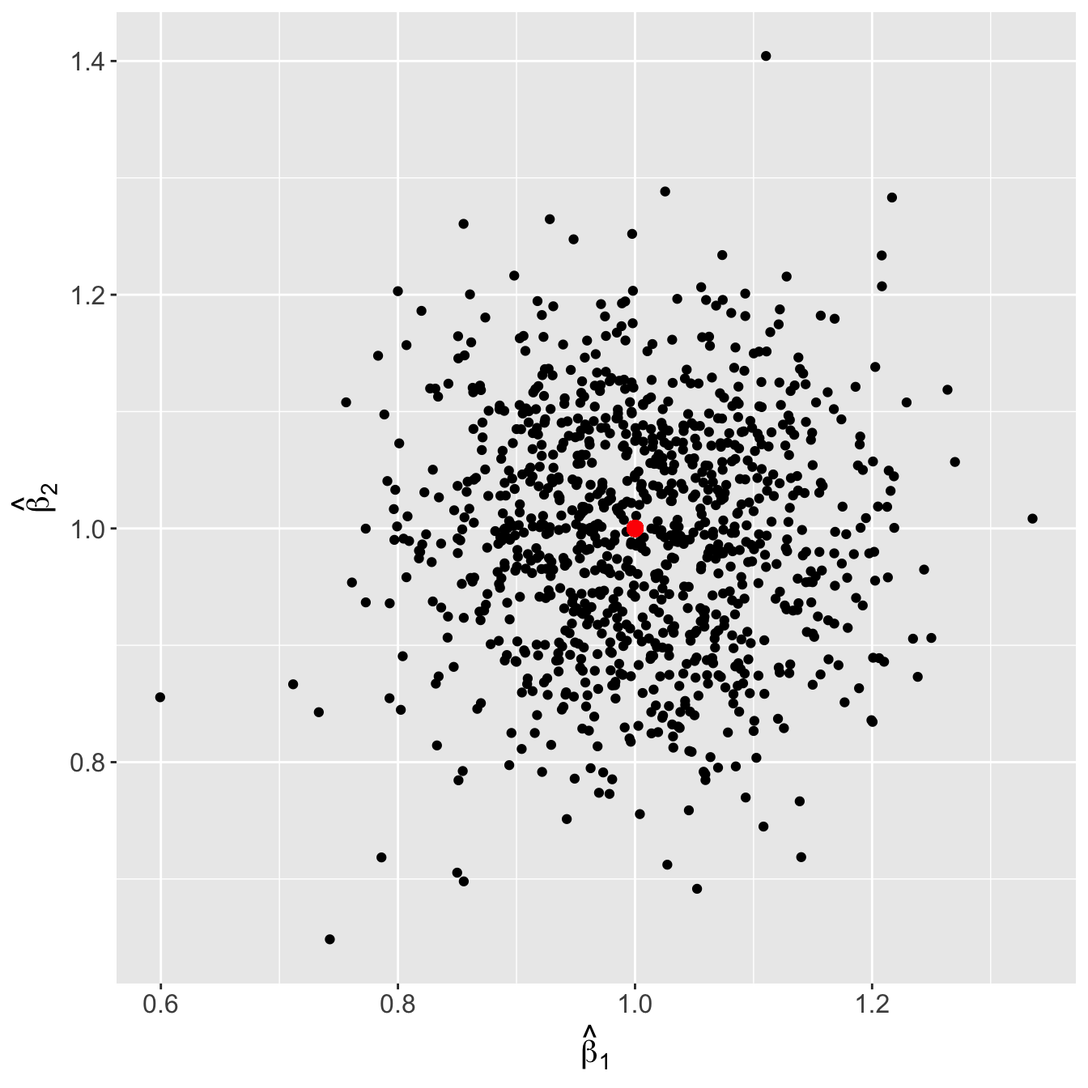
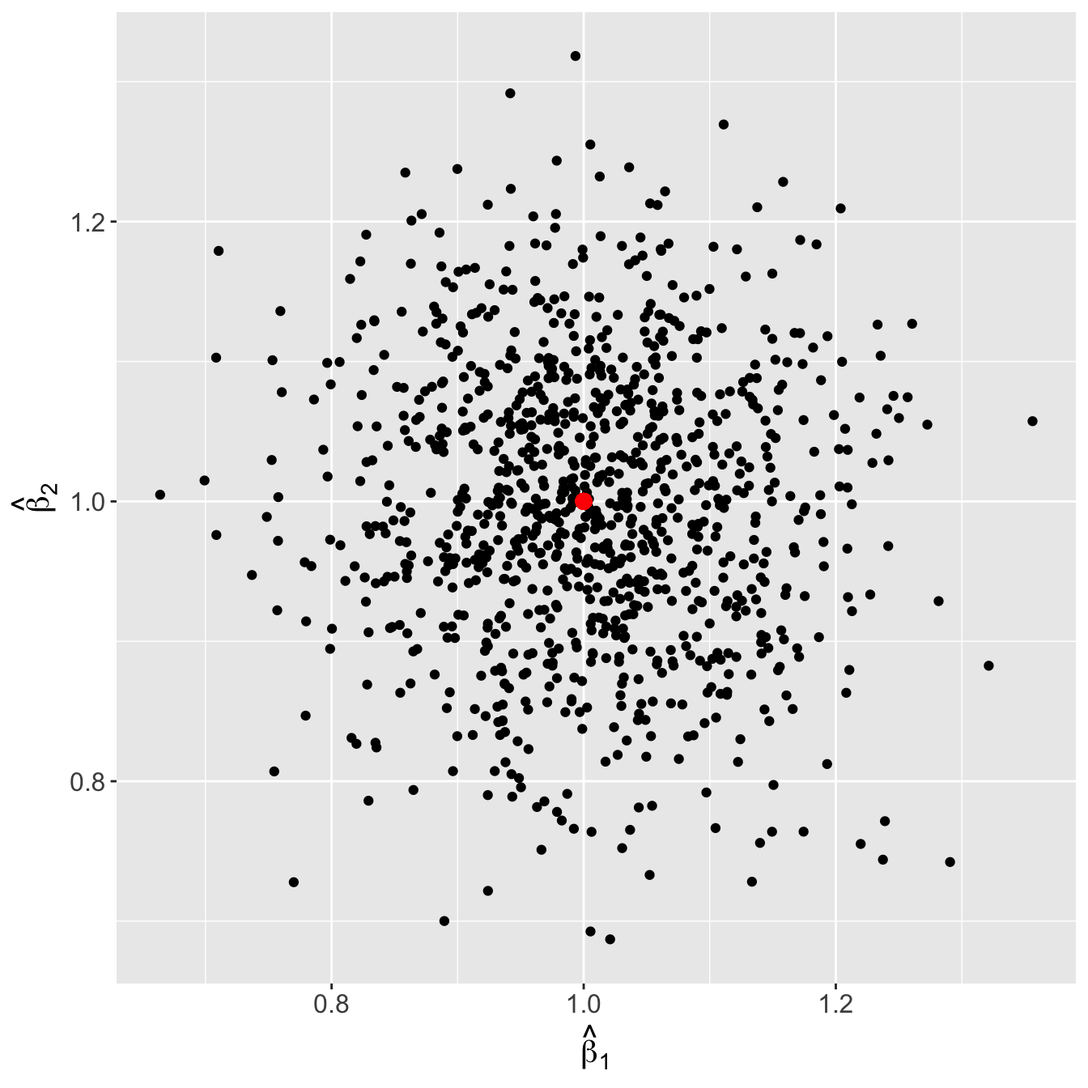
Fix link

diff --git a/docs/responsesurfaceplot.html b/docs/responsesurfaceplot.html
@@ -315,8 +315,8 @@ pre > code.sourceCode > span > a:first-child::before { text-decoration: underlin
 <span id="cb2-21"><a href="#cb2-21" aria-hidden="true" tabindex="-1"></a>                      <span class="at">yaxis=</span><span class="fu">list</span>(<span class="at">title =</span> <span class="st">"disp"</span>),</span>
 <span id="cb2-22"><a href="#cb2-22" aria-hidden="true" tabindex="-1"></a>                      <span class="at">zaxis=</span><span class="fu">list</span>(<span class="at">title =</span> <span class="st">"mpg"</span>)))</span></code><button title="Copy to Clipboard" class="code-copy-button"><i class="bi"></i></button></pre></div>
 <div class="cell-output-display">
-<div class="plotly html-widget html-fill-item-overflow-hidden html-fill-item" id="htmlwidget-5227a7df0e767307f2bc" style="width:100%;height:464px;"></div>
-<script type="application/json" data-for="htmlwidget-5227a7df0e767307f2bc">{"x":{"visdat":{"69561ab9ceee":["function () ","plotlyVisDat"]},"cur_data":"69561ab9ceee","attrs":{"69561ab9ceee":{"x":[14,15,16,17,18,19,20,21,22,23],"y":[50,100,150,200,250,300,350,400,450,500],"z":[[24.51389401089628,26.441878925335178,28.115744100722715,29.535489537058897,30.701115234343725,31.612621192577194,32.270007411759295,32.673273891890062,32.82242063296944,32.717447634997484],[21.55665971020747,23.175072448572095,24.539365447885373,25.649538708147283,26.505592229357841,27.107526011517034,27.45534005462487,27.549034358681361,27.388608923686462,26.974063749640237],[19.165798427676997,20.47463898996735,21.529359813206348,22.329960897393988,22.87644224253027,23.168803848615195,23.207045715648754,22.991167843630976,22.521170232561804,21.797052882441307],[17.34131016330484,18.340578549520927,19.085727196685657,19.576756104799021,19.813665273861034,19.796454703871682,19.525124394830971,18.999674346738917,18.220104559595477,17.18641503340071],[16.083194917091021,16.772891127232835,17.208467598323278,17.389924330362387,17.31726132335011,16.990478577286503,16.409576092171505,15.574553868005182,14.485411904787462,13.142150202518422],[15.391452689035521,15.77157672310306,15.897581018119244,15.769465574084066,15.38723039099753,14.75087546885964,13.860400807670381,12.715806407429788,11.317092268137799,9.6642583897944832],[15.266083479138363,15.336635337131632,15.153067456073558,14.715379835964093,14.023572476803302,13.077645378591122,11.877598541327608,10.423431965012739,8.7151456496464732,6.7527395952288884],[15.707087287399524,15.468066969318514,14.974926912186156,14.227667116002443,13.226287580767355,11.970788306480927,10.461169293143115,8.6974305407539703,6.6795720493134425,4.4075938188215744],[16.714464113819027,16.165871619663747,15.363159386457113,14.306327414199117,12.995375702889767,11.430304252529055,9.6111130631169743,7.5378021346535604,5.2103714671387849,2.6288210605726192],[18.288213958396845,17.430049288167289,16.317764878886386,14.951360730554121,13.330836843170502,11.456193216735514,9.327429851249164,6.944546746711481,4.3075439031224221,1.4164213204819873]],"alpha_stroke":1,"sizes":[10,100],"spans":[1,20],"type":"surface"}},"layout":{"margin":{"b":40,"l":60,"t":25,"r":10},"scene":{"xaxis":{"title":"qsec"},"yaxis":{"title":"disp"},"zaxis":{"title":"mpg"}},"hovermode":"closest","showlegend":false,"legend":{"yanchor":"top","y":0.5}},"source":"A","config":{"modeBarButtonsToAdd":["hoverclosest","hovercompare"],"showSendToCloud":false},"data":[{"colorbar":{"title":"","ticklen":2,"len":0.5,"lenmode":"fraction","y":1,"yanchor":"top"},"colorscale":[["0","rgba(68,1,84,1)"],["0.0416666666666667","rgba(70,19,97,1)"],["0.0833333333333334","rgba(72,32,111,1)"],["0.125","rgba(71,45,122,1)"],["0.166666666666667","rgba(68,58,128,1)"],["0.208333333333333","rgba(64,70,135,1)"],["0.25","rgba(60,82,138,1)"],["0.291666666666667","rgba(56,93,140,1)"],["0.333333333333333","rgba(49,104,142,1)"],["0.375","rgba(46,114,142,1)"],["0.416666666666667","rgba(42,123,142,1)"],["0.458333333333333","rgba(38,133,141,1)"],["0.5","rgba(37,144,140,1)"],["0.541666666666667","rgba(33,154,138,1)"],["0.583333333333333","rgba(39,164,133,1)"],["0.625","rgba(47,174,127,1)"],["0.666666666666667","rgba(53,183,121,1)"],["0.708333333333333","rgba(79,191,110,1)"],["0.75","rgba(98,199,98,1)"],["0.791666666666667","rgba(119,207,85,1)"],["0.833333333333333","rgba(147,214,70,1)"],["0.875","rgba(172,220,52,1)"],["0.916666666666667","rgba(199,225,42,1)"],["0.958333333333333","rgba(226,228,40,1)"],["1","rgba(253,231,37,1)"]],"showscale":true,"x":[14,15,16,17,18,19,20,21,22,23],"y":[50,100,150,200,250,300,350,400,450,500],"z":[[24.51389401089628,26.441878925335178,28.115744100722715,29.535489537058897,30.701115234343725,31.612621192577194,32.270007411759295,32.673273891890062,32.82242063296944,32.717447634997484],[21.55665971020747,23.175072448572095,24.539365447885373,25.649538708147283,26.505592229357841,27.107526011517034,27.45534005462487,27.549034358681361,27.388608923686462,26.974063749640237],[19.165798427676997,20.47463898996735,21.529359813206348,22.329960897393988,22.87644224253027,23.168803848615195,23.207045715648754,22.991167843630976,22.521170232561804,21.797052882441307],[17.34131016330484,18.340578549520927,19.085727196685657,19.576756104799021,19.813665273861034,19.796454703871682,19.525124394830971,18.999674346738917,18.220104559595477,17.18641503340071],[16.083194917091021,16.772891127232835,17.208467598323278,17.389924330362387,17.31726132335011,16.990478577286503,16.409576092171505,15.574553868005182,14.485411904787462,13.142150202518422],[15.391452689035521,15.77157672310306,15.897581018119244,15.769465574084066,15.38723039099753,14.75087546885964,13.860400807670381,12.715806407429788,11.317092268137799,9.6642583897944832],[15.266083479138363,15.336635337131632,15.153067456073558,14.715379835964093,14.023572476803302,13.077645378591122,11.877598541327608,10.423431965012739,8.7151456496464732,6.7527395952288884],[15.707087287399524,15.468066969318514,14.974926912186156,14.227667116002443,13.226287580767355,11.970788306480927,10.461169293143115,8.6974305407539703,6.6795720493134425,4.4075938188215744],[16.714464113819027,16.165871619663747,15.363159386457113,14.306327414199117,12.995375702889767,11.430304252529055,9.6111130631169743,7.5378021346535604,5.2103714671387849,2.6288210605726192],[18.288213958396845,17.430049288167289,16.317764878886386,14.951360730554121,13.330836843170502,11.456193216735514,9.327429851249164,6.944546746711481,4.3075439031224221,1.4164213204819873]],"type":"surface","frame":null}],"highlight":{"on":"plotly_click","persistent":false,"dynamic":false,"selectize":false,"opacityDim":0.20000000000000001,"selected":{"opacity":1},"debounce":0},"shinyEvents":["plotly_hover","plotly_click","plotly_selected","plotly_relayout","plotly_brushed","plotly_brushing","plotly_clickannotation","plotly_doubleclick","plotly_deselect","plotly_afterplot","plotly_sunburstclick"],"base_url":"https://plot.ly"},"evals":[],"jsHooks":[]}</script>
+<div class="plotly html-widget html-fill-item-overflow-hidden html-fill-item" id="htmlwidget-10cc57d3025271760944" style="width:100%;height:464px;"></div>
+<script type="application/json" data-for="htmlwidget-10cc57d3025271760944">{"x":{"visdat":{"729e4b0c83c9":["function () ","plotlyVisDat"]},"cur_data":"729e4b0c83c9","attrs":{"729e4b0c83c9":{"x":[14,15,16,17,18,19,20,21,22,23],"y":[50,100,150,200,250,300,350,400,450,500],"z":[[24.51389401089628,26.441878925335178,28.115744100722715,29.535489537058897,30.701115234343725,31.612621192577194,32.270007411759295,32.673273891890062,32.82242063296944,32.717447634997484],[21.55665971020747,23.175072448572095,24.539365447885373,25.649538708147283,26.505592229357841,27.107526011517034,27.45534005462487,27.549034358681361,27.388608923686462,26.974063749640237],[19.165798427676997,20.47463898996735,21.529359813206348,22.329960897393988,22.87644224253027,23.168803848615195,23.207045715648754,22.991167843630976,22.521170232561804,21.797052882441307],[17.34131016330484,18.340578549520927,19.085727196685657,19.576756104799021,19.813665273861034,19.796454703871682,19.525124394830971,18.999674346738917,18.220104559595477,17.18641503340071],[16.083194917091021,16.772891127232835,17.208467598323278,17.389924330362387,17.31726132335011,16.990478577286503,16.409576092171505,15.574553868005182,14.485411904787462,13.142150202518422],[15.391452689035521,15.77157672310306,15.897581018119244,15.769465574084066,15.38723039099753,14.75087546885964,13.860400807670381,12.715806407429788,11.317092268137799,9.6642583897944832],[15.266083479138363,15.336635337131632,15.153067456073558,14.715379835964093,14.023572476803302,13.077645378591122,11.877598541327608,10.423431965012739,8.7151456496464732,6.7527395952288884],[15.707087287399524,15.468066969318514,14.974926912186156,14.227667116002443,13.226287580767355,11.970788306480927,10.461169293143115,8.6974305407539703,6.6795720493134425,4.4075938188215744],[16.714464113819027,16.165871619663747,15.363159386457113,14.306327414199117,12.995375702889767,11.430304252529055,9.6111130631169743,7.5378021346535604,5.2103714671387849,2.6288210605726192],[18.288213958396845,17.430049288167289,16.317764878886386,14.951360730554121,13.330836843170502,11.456193216735514,9.327429851249164,6.944546746711481,4.3075439031224221,1.4164213204819873]],"alpha_stroke":1,"sizes":[10,100],"spans":[1,20],"type":"surface"}},"layout":{"margin":{"b":40,"l":60,"t":25,"r":10},"scene":{"xaxis":{"title":"qsec"},"yaxis":{"title":"disp"},"zaxis":{"title":"mpg"}},"hovermode":"closest","showlegend":false,"legend":{"yanchor":"top","y":0.5}},"source":"A","config":{"modeBarButtonsToAdd":["hoverclosest","hovercompare"],"showSendToCloud":false},"data":[{"colorbar":{"title":"","ticklen":2,"len":0.5,"lenmode":"fraction","y":1,"yanchor":"top"},"colorscale":[["0","rgba(68,1,84,1)"],["0.0416666666666667","rgba(70,19,97,1)"],["0.0833333333333334","rgba(72,32,111,1)"],["0.125","rgba(71,45,122,1)"],["0.166666666666667","rgba(68,58,128,1)"],["0.208333333333333","rgba(64,70,135,1)"],["0.25","rgba(60,82,138,1)"],["0.291666666666667","rgba(56,93,140,1)"],["0.333333333333333","rgba(49,104,142,1)"],["0.375","rgba(46,114,142,1)"],["0.416666666666667","rgba(42,123,142,1)"],["0.458333333333333","rgba(38,133,141,1)"],["0.5","rgba(37,144,140,1)"],["0.541666666666667","rgba(33,154,138,1)"],["0.583333333333333","rgba(39,164,133,1)"],["0.625","rgba(47,174,127,1)"],["0.666666666666667","rgba(53,183,121,1)"],["0.708333333333333","rgba(79,191,110,1)"],["0.75","rgba(98,199,98,1)"],["0.791666666666667","rgba(119,207,85,1)"],["0.833333333333333","rgba(147,214,70,1)"],["0.875","rgba(172,220,52,1)"],["0.916666666666667","rgba(199,225,42,1)"],["0.958333333333333","rgba(226,228,40,1)"],["1","rgba(253,231,37,1)"]],"showscale":true,"x":[14,15,16,17,18,19,20,21,22,23],"y":[50,100,150,200,250,300,350,400,450,500],"z":[[24.51389401089628,26.441878925335178,28.115744100722715,29.535489537058897,30.701115234343725,31.612621192577194,32.270007411759295,32.673273891890062,32.82242063296944,32.717447634997484],[21.55665971020747,23.175072448572095,24.539365447885373,25.649538708147283,26.505592229357841,27.107526011517034,27.45534005462487,27.549034358681361,27.388608923686462,26.974063749640237],[19.165798427676997,20.47463898996735,21.529359813206348,22.329960897393988,22.87644224253027,23.168803848615195,23.207045715648754,22.991167843630976,22.521170232561804,21.797052882441307],[17.34131016330484,18.340578549520927,19.085727196685657,19.576756104799021,19.813665273861034,19.796454703871682,19.525124394830971,18.999674346738917,18.220104559595477,17.18641503340071],[16.083194917091021,16.772891127232835,17.208467598323278,17.389924330362387,17.31726132335011,16.990478577286503,16.409576092171505,15.574553868005182,14.485411904787462,13.142150202518422],[15.391452689035521,15.77157672310306,15.897581018119244,15.769465574084066,15.38723039099753,14.75087546885964,13.860400807670381,12.715806407429788,11.317092268137799,9.6642583897944832],[15.266083479138363,15.336635337131632,15.153067456073558,14.715379835964093,14.023572476803302,13.077645378591122,11.877598541327608,10.423431965012739,8.7151456496464732,6.7527395952288884],[15.707087287399524,15.468066969318514,14.974926912186156,14.227667116002443,13.226287580767355,11.970788306480927,10.461169293143115,8.6974305407539703,6.6795720493134425,4.4075938188215744],[16.714464113819027,16.165871619663747,15.363159386457113,14.306327414199117,12.995375702889767,11.430304252529055,9.6111130631169743,7.5378021346535604,5.2103714671387849,2.6288210605726192],[18.288213958396845,17.430049288167289,16.317764878886386,14.951360730554121,13.330836843170502,11.456193216735514,9.327429851249164,6.944546746711481,4.3075439031224221,1.4164213204819873]],"type":"surface","frame":null}],"highlight":{"on":"plotly_click","persistent":false,"dynamic":false,"selectize":false,"opacityDim":0.20000000000000001,"selected":{"opacity":1},"debounce":0},"shinyEvents":["plotly_hover","plotly_click","plotly_selected","plotly_relayout","plotly_brushed","plotly_brushing","plotly_clickannotation","plotly_doubleclick","plotly_deselect","plotly_afterplot","plotly_sunburstclick"],"base_url":"https://plot.ly"},"evals":[],"jsHooks":[]}</script>
 </div>
 </div>
 </section>
@@ -353,8 +353,8 @@ pre > code.sourceCode > span > a:first-child::before { text-decoration: underlin
 <span id="cb6-11"><a href="#cb6-11" aria-hidden="true" tabindex="-1"></a>            <span class="at">type =</span> <span class="st">"scatter3d"</span>,</span>
 <span id="cb6-12"><a href="#cb6-12" aria-hidden="true" tabindex="-1"></a>            <span class="at">marker =</span> <span class="fu">list</span>(<span class="at">size =</span> <span class="dv">10</span>, <span class="at">color =</span> <span class="st">"red"</span>, <span class="at">symbol =</span> <span class="dv">104</span>))</span></code><button title="Copy to Clipboard" class="code-copy-button"><i class="bi"></i></button></pre></div>
 <div class="cell-output-display">
-<div class="plotly html-widget html-fill-item-overflow-hidden html-fill-item" id="htmlwidget-b8746f721bbd9d9b7b22" style="width:100%;height:464px;"></div>
-<script type="application/json" data-for="htmlwidget-b8746f721bbd9d9b7b22">{"x":{"visdat":{"69565eb71a18":["function () ","plotlyVisDat"]},"cur_data":"69565eb71a18","attrs":{"69565eb71a18":{"x":[14,15,16,17,18,19,20,21,22,23],"y":[50,100,150,200,250,300,350,400,450,500],"z":[[24.51389401089628,26.441878925335178,28.115744100722715,29.535489537058897,30.701115234343725,31.612621192577194,32.270007411759295,32.673273891890062,32.82242063296944,32.717447634997484],[21.55665971020747,23.175072448572095,24.539365447885373,25.649538708147283,26.505592229357841,27.107526011517034,27.45534005462487,27.549034358681361,27.388608923686462,26.974063749640237],[19.165798427676997,20.47463898996735,21.529359813206348,22.329960897393988,22.87644224253027,23.168803848615195,23.207045715648754,22.991167843630976,22.521170232561804,21.797052882441307],[17.34131016330484,18.340578549520927,19.085727196685657,19.576756104799021,19.813665273861034,19.796454703871682,19.525124394830971,18.999674346738917,18.220104559595477,17.18641503340071],[16.083194917091021,16.772891127232835,17.208467598323278,17.389924330362387,17.31726132335011,16.990478577286503,16.409576092171505,15.574553868005182,14.485411904787462,13.142150202518422],[15.391452689035521,15.77157672310306,15.897581018119244,15.769465574084066,15.38723039099753,14.75087546885964,13.860400807670381,12.715806407429788,11.317092268137799,9.6642583897944832],[15.266083479138363,15.336635337131632,15.153067456073558,14.715379835964093,14.023572476803302,13.077645378591122,11.877598541327608,10.423431965012739,8.7151456496464732,6.7527395952288884],[15.707087287399524,15.468066969318514,14.974926912186156,14.227667116002443,13.226287580767355,11.970788306480927,10.461169293143115,8.6974305407539703,6.6795720493134425,4.4075938188215744],[16.714464113819027,16.165871619663747,15.363159386457113,14.306327414199117,12.995375702889767,11.430304252529055,9.6111130631169743,7.5378021346535604,5.2103714671387849,2.6288210605726192],[18.288213958396845,17.430049288167289,16.317764878886386,14.951360730554121,13.330836843170502,11.456193216735514,9.327429851249164,6.944546746711481,4.3075439031224221,1.4164213204819873]],"alpha_stroke":1,"sizes":[10,100],"spans":[1,20],"type":"surface"},"69565eb71a18.1":{"x":[16.460000000000001,17.02,18.609999999999999,19.440000000000001,17.02,20.219999999999999,15.84,20,22.899999999999999,18.300000000000001,18.899999999999999,17.399999999999999,17.600000000000001,18,17.98,17.82,17.420000000000002,19.469999999999999,18.52,19.899999999999999,20.010000000000002,16.870000000000001,17.300000000000001,15.41,17.050000000000001,18.899999999999999,16.699999999999999,16.899999999999999,14.5,15.5,14.6,18.600000000000001],"y":[160,160,108,258,360,225,360,146.69999999999999,140.80000000000001,167.59999999999999,167.59999999999999,275.80000000000001,275.80000000000001,275.80000000000001,472,460,440,78.700000000000003,75.700000000000003,71.099999999999994,120.09999999999999,318,304,350,400,79,120.3,95.099999999999994,351,145,301,121],"z":[22.366680978567199,22.746191809063458,27.254060870337607,17.347998390322861,15.559943388074297,18.768705139893644,16.128483522911321,24.469976392855507,23.78525512201632,22.81545127221619,22.910239407937187,17.42057694933883,17.374096499365514,17.250641230732715,14.104635091594524,14.283028032609581,14.751641641363872,30.214556415555705,29.896830077560857,31.127904778669453,26.68039918192094,16.370261993477243,16.568878473414912,16.292108288336085,15.183633483043158,29.868921732596892,24.964832211273556,26.902713589629641,16.333298274342937,22.293799537815325,16.638248772273428,26.226007450889536],"alpha_stroke":1,"sizes":[10,100],"spans":[1,20],"type":"scatter3d","mode":"markers","marker":{"size":10,"color":"red","symbol":104},"inherit":true}},"layout":{"margin":{"b":40,"l":60,"t":25,"r":10},"scene":{"xaxis":{"title":"qsec"},"yaxis":{"title":"disp"},"zaxis":{"title":"mpg"}},"hovermode":"closest","showlegend":false,"legend":{"yanchor":"top","y":0.5}},"source":"A","config":{"modeBarButtonsToAdd":["hoverclosest","hovercompare"],"showSendToCloud":false},"data":[{"colorbar":{"title":"","ticklen":2,"len":0.5,"lenmode":"fraction","y":1,"yanchor":"top"},"colorscale":[["0","rgba(68,1,84,1)"],["0.0416666666666667","rgba(70,19,97,1)"],["0.0833333333333334","rgba(72,32,111,1)"],["0.125","rgba(71,45,122,1)"],["0.166666666666667","rgba(68,58,128,1)"],["0.208333333333333","rgba(64,70,135,1)"],["0.25","rgba(60,82,138,1)"],["0.291666666666667","rgba(56,93,140,1)"],["0.333333333333333","rgba(49,104,142,1)"],["0.375","rgba(46,114,142,1)"],["0.416666666666667","rgba(42,123,142,1)"],["0.458333333333333","rgba(38,133,141,1)"],["0.5","rgba(37,144,140,1)"],["0.541666666666667","rgba(33,154,138,1)"],["0.583333333333333","rgba(39,164,133,1)"],["0.625","rgba(47,174,127,1)"],["0.666666666666667","rgba(53,183,121,1)"],["0.708333333333333","rgba(79,191,110,1)"],["0.75","rgba(98,199,98,1)"],["0.791666666666667","rgba(119,207,85,1)"],["0.833333333333333","rgba(147,214,70,1)"],["0.875","rgba(172,220,52,1)"],["0.916666666666667","rgba(199,225,42,1)"],["0.958333333333333","rgba(226,228,40,1)"],["1","rgba(253,231,37,1)"]],"showscale":true,"x":[14,15,16,17,18,19,20,21,22,23],"y":[50,100,150,200,250,300,350,400,450,500],"z":[[24.51389401089628,26.441878925335178,28.115744100722715,29.535489537058897,30.701115234343725,31.612621192577194,32.270007411759295,32.673273891890062,32.82242063296944,32.717447634997484],[21.55665971020747,23.175072448572095,24.539365447885373,25.649538708147283,26.505592229357841,27.107526011517034,27.45534005462487,27.549034358681361,27.388608923686462,26.974063749640237],[19.165798427676997,20.47463898996735,21.529359813206348,22.329960897393988,22.87644224253027,23.168803848615195,23.207045715648754,22.991167843630976,22.521170232561804,21.797052882441307],[17.34131016330484,18.340578549520927,19.085727196685657,19.576756104799021,19.813665273861034,19.796454703871682,19.525124394830971,18.999674346738917,18.220104559595477,17.18641503340071],[16.083194917091021,16.772891127232835,17.208467598323278,17.389924330362387,17.31726132335011,16.990478577286503,16.409576092171505,15.574553868005182,14.485411904787462,13.142150202518422],[15.391452689035521,15.77157672310306,15.897581018119244,15.769465574084066,15.38723039099753,14.75087546885964,13.860400807670381,12.715806407429788,11.317092268137799,9.6642583897944832],[15.266083479138363,15.336635337131632,15.153067456073558,14.715379835964093,14.023572476803302,13.077645378591122,11.877598541327608,10.423431965012739,8.7151456496464732,6.7527395952288884],[15.707087287399524,15.468066969318514,14.974926912186156,14.227667116002443,13.226287580767355,11.970788306480927,10.461169293143115,8.6974305407539703,6.6795720493134425,4.4075938188215744],[16.714464113819027,16.165871619663747,15.363159386457113,14.306327414199117,12.995375702889767,11.430304252529055,9.6111130631169743,7.5378021346535604,5.2103714671387849,2.6288210605726192],[18.288213958396845,17.430049288167289,16.317764878886386,14.951360730554121,13.330836843170502,11.456193216735514,9.327429851249164,6.944546746711481,4.3075439031224221,1.4164213204819873]],"type":"surface","frame":null},{"x":[16.460000000000001,17.02,18.609999999999999,19.440000000000001,17.02,20.219999999999999,15.84,20,22.899999999999999,18.300000000000001,18.899999999999999,17.399999999999999,17.600000000000001,18,17.98,17.82,17.420000000000002,19.469999999999999,18.52,19.899999999999999,20.010000000000002,16.870000000000001,17.300000000000001,15.41,17.050000000000001,18.899999999999999,16.699999999999999,16.899999999999999,14.5,15.5,14.6,18.600000000000001],"y":[160,160,108,258,360,225,360,146.69999999999999,140.80000000000001,167.59999999999999,167.59999999999999,275.80000000000001,275.80000000000001,275.80000000000001,472,460,440,78.700000000000003,75.700000000000003,71.099999999999994,120.09999999999999,318,304,350,400,79,120.3,95.099999999999994,351,145,301,121],"z":[22.366680978567199,22.746191809063458,27.254060870337607,17.347998390322861,15.559943388074297,18.768705139893644,16.128483522911321,24.469976392855507,23.78525512201632,22.81545127221619,22.910239407937187,17.42057694933883,17.374096499365514,17.250641230732715,14.104635091594524,14.283028032609581,14.751641641363872,30.214556415555705,29.896830077560857,31.127904778669453,26.68039918192094,16.370261993477243,16.568878473414912,16.292108288336085,15.183633483043158,29.868921732596892,24.964832211273556,26.902713589629641,16.333298274342937,22.293799537815325,16.638248772273428,26.226007450889536],"type":"scatter3d","mode":"markers","marker":{"color":"red","size":10,"symbol":104,"line":{"color":"rgba(255,127,14,1)"}},"error_y":{"color":"rgba(255,127,14,1)"},"error_x":{"color":"rgba(255,127,14,1)"},"line":{"color":"rgba(255,127,14,1)"},"frame":null}],"highlight":{"on":"plotly_click","persistent":false,"dynamic":false,"selectize":false,"opacityDim":0.20000000000000001,"selected":{"opacity":1},"debounce":0},"shinyEvents":["plotly_hover","plotly_click","plotly_selected","plotly_relayout","plotly_brushed","plotly_brushing","plotly_clickannotation","plotly_doubleclick","plotly_deselect","plotly_afterplot","plotly_sunburstclick"],"base_url":"https://plot.ly"},"evals":[],"jsHooks":[]}</script>
+<div class="plotly html-widget html-fill-item-overflow-hidden html-fill-item" id="htmlwidget-940135a7f68651fd1776" style="width:100%;height:464px;"></div>
+<script type="application/json" data-for="htmlwidget-940135a7f68651fd1776">{"x":{"visdat":{"729e3fc3dd85":["function () ","plotlyVisDat"]},"cur_data":"729e3fc3dd85","attrs":{"729e3fc3dd85":{"x":[14,15,16,17,18,19,20,21,22,23],"y":[50,100,150,200,250,300,350,400,450,500],"z":[[24.51389401089628,26.441878925335178,28.115744100722715,29.535489537058897,30.701115234343725,31.612621192577194,32.270007411759295,32.673273891890062,32.82242063296944,32.717447634997484],[21.55665971020747,23.175072448572095,24.539365447885373,25.649538708147283,26.505592229357841,27.107526011517034,27.45534005462487,27.549034358681361,27.388608923686462,26.974063749640237],[19.165798427676997,20.47463898996735,21.529359813206348,22.329960897393988,22.87644224253027,23.168803848615195,23.207045715648754,22.991167843630976,22.521170232561804,21.797052882441307],[17.34131016330484,18.340578549520927,19.085727196685657,19.576756104799021,19.813665273861034,19.796454703871682,19.525124394830971,18.999674346738917,18.220104559595477,17.18641503340071],[16.083194917091021,16.772891127232835,17.208467598323278,17.389924330362387,17.31726132335011,16.990478577286503,16.409576092171505,15.574553868005182,14.485411904787462,13.142150202518422],[15.391452689035521,15.77157672310306,15.897581018119244,15.769465574084066,15.38723039099753,14.75087546885964,13.860400807670381,12.715806407429788,11.317092268137799,9.6642583897944832],[15.266083479138363,15.336635337131632,15.153067456073558,14.715379835964093,14.023572476803302,13.077645378591122,11.877598541327608,10.423431965012739,8.7151456496464732,6.7527395952288884],[15.707087287399524,15.468066969318514,14.974926912186156,14.227667116002443,13.226287580767355,11.970788306480927,10.461169293143115,8.6974305407539703,6.6795720493134425,4.4075938188215744],[16.714464113819027,16.165871619663747,15.363159386457113,14.306327414199117,12.995375702889767,11.430304252529055,9.6111130631169743,7.5378021346535604,5.2103714671387849,2.6288210605726192],[18.288213958396845,17.430049288167289,16.317764878886386,14.951360730554121,13.330836843170502,11.456193216735514,9.327429851249164,6.944546746711481,4.3075439031224221,1.4164213204819873]],"alpha_stroke":1,"sizes":[10,100],"spans":[1,20],"type":"surface"},"729e3fc3dd85.1":{"x":[16.460000000000001,17.02,18.609999999999999,19.440000000000001,17.02,20.219999999999999,15.84,20,22.899999999999999,18.300000000000001,18.899999999999999,17.399999999999999,17.600000000000001,18,17.98,17.82,17.420000000000002,19.469999999999999,18.52,19.899999999999999,20.010000000000002,16.870000000000001,17.300000000000001,15.41,17.050000000000001,18.899999999999999,16.699999999999999,16.899999999999999,14.5,15.5,14.6,18.600000000000001],"y":[160,160,108,258,360,225,360,146.69999999999999,140.80000000000001,167.59999999999999,167.59999999999999,275.80000000000001,275.80000000000001,275.80000000000001,472,460,440,78.700000000000003,75.700000000000003,71.099999999999994,120.09999999999999,318,304,350,400,79,120.3,95.099999999999994,351,145,301,121],"z":[22.366680978567199,22.746191809063458,27.254060870337607,17.347998390322861,15.559943388074297,18.768705139893644,16.128483522911321,24.469976392855507,23.78525512201632,22.81545127221619,22.910239407937187,17.42057694933883,17.374096499365514,17.250641230732715,14.104635091594524,14.283028032609581,14.751641641363872,30.214556415555705,29.896830077560857,31.127904778669453,26.68039918192094,16.370261993477243,16.568878473414912,16.292108288336085,15.183633483043158,29.868921732596892,24.964832211273556,26.902713589629641,16.333298274342937,22.293799537815325,16.638248772273428,26.226007450889536],"alpha_stroke":1,"sizes":[10,100],"spans":[1,20],"type":"scatter3d","mode":"markers","marker":{"size":10,"color":"red","symbol":104},"inherit":true}},"layout":{"margin":{"b":40,"l":60,"t":25,"r":10},"scene":{"xaxis":{"title":"qsec"},"yaxis":{"title":"disp"},"zaxis":{"title":"mpg"}},"hovermode":"closest","showlegend":false,"legend":{"yanchor":"top","y":0.5}},"source":"A","config":{"modeBarButtonsToAdd":["hoverclosest","hovercompare"],"showSendToCloud":false},"data":[{"colorbar":{"title":"","ticklen":2,"len":0.5,"lenmode":"fraction","y":1,"yanchor":"top"},"colorscale":[["0","rgba(68,1,84,1)"],["0.0416666666666667","rgba(70,19,97,1)"],["0.0833333333333334","rgba(72,32,111,1)"],["0.125","rgba(71,45,122,1)"],["0.166666666666667","rgba(68,58,128,1)"],["0.208333333333333","rgba(64,70,135,1)"],["0.25","rgba(60,82,138,1)"],["0.291666666666667","rgba(56,93,140,1)"],["0.333333333333333","rgba(49,104,142,1)"],["0.375","rgba(46,114,142,1)"],["0.416666666666667","rgba(42,123,142,1)"],["0.458333333333333","rgba(38,133,141,1)"],["0.5","rgba(37,144,140,1)"],["0.541666666666667","rgba(33,154,138,1)"],["0.583333333333333","rgba(39,164,133,1)"],["0.625","rgba(47,174,127,1)"],["0.666666666666667","rgba(53,183,121,1)"],["0.708333333333333","rgba(79,191,110,1)"],["0.75","rgba(98,199,98,1)"],["0.791666666666667","rgba(119,207,85,1)"],["0.833333333333333","rgba(147,214,70,1)"],["0.875","rgba(172,220,52,1)"],["0.916666666666667","rgba(199,225,42,1)"],["0.958333333333333","rgba(226,228,40,1)"],["1","rgba(253,231,37,1)"]],"showscale":true,"x":[14,15,16,17,18,19,20,21,22,23],"y":[50,100,150,200,250,300,350,400,450,500],"z":[[24.51389401089628,26.441878925335178,28.115744100722715,29.535489537058897,30.701115234343725,31.612621192577194,32.270007411759295,32.673273891890062,32.82242063296944,32.717447634997484],[21.55665971020747,23.175072448572095,24.539365447885373,25.649538708147283,26.505592229357841,27.107526011517034,27.45534005462487,27.549034358681361,27.388608923686462,26.974063749640237],[19.165798427676997,20.47463898996735,21.529359813206348,22.329960897393988,22.87644224253027,23.168803848615195,23.207045715648754,22.991167843630976,22.521170232561804,21.797052882441307],[17.34131016330484,18.340578549520927,19.085727196685657,19.576756104799021,19.813665273861034,19.796454703871682,19.525124394830971,18.999674346738917,18.220104559595477,17.18641503340071],[16.083194917091021,16.772891127232835,17.208467598323278,17.389924330362387,17.31726132335011,16.990478577286503,16.409576092171505,15.574553868005182,14.485411904787462,13.142150202518422],[15.391452689035521,15.77157672310306,15.897581018119244,15.769465574084066,15.38723039099753,14.75087546885964,13.860400807670381,12.715806407429788,11.317092268137799,9.6642583897944832],[15.266083479138363,15.336635337131632,15.153067456073558,14.715379835964093,14.023572476803302,13.077645378591122,11.877598541327608,10.423431965012739,8.7151456496464732,6.7527395952288884],[15.707087287399524,15.468066969318514,14.974926912186156,14.227667116002443,13.226287580767355,11.970788306480927,10.461169293143115,8.6974305407539703,6.6795720493134425,4.4075938188215744],[16.714464113819027,16.165871619663747,15.363159386457113,14.306327414199117,12.995375702889767,11.430304252529055,9.6111130631169743,7.5378021346535604,5.2103714671387849,2.6288210605726192],[18.288213958396845,17.430049288167289,16.317764878886386,14.951360730554121,13.330836843170502,11.456193216735514,9.327429851249164,6.944546746711481,4.3075439031224221,1.4164213204819873]],"type":"surface","frame":null},{"x":[16.460000000000001,17.02,18.609999999999999,19.440000000000001,17.02,20.219999999999999,15.84,20,22.899999999999999,18.300000000000001,18.899999999999999,17.399999999999999,17.600000000000001,18,17.98,17.82,17.420000000000002,19.469999999999999,18.52,19.899999999999999,20.010000000000002,16.870000000000001,17.300000000000001,15.41,17.050000000000001,18.899999999999999,16.699999999999999,16.899999999999999,14.5,15.5,14.6,18.600000000000001],"y":[160,160,108,258,360,225,360,146.69999999999999,140.80000000000001,167.59999999999999,167.59999999999999,275.80000000000001,275.80000000000001,275.80000000000001,472,460,440,78.700000000000003,75.700000000000003,71.099999999999994,120.09999999999999,318,304,350,400,79,120.3,95.099999999999994,351,145,301,121],"z":[22.366680978567199,22.746191809063458,27.254060870337607,17.347998390322861,15.559943388074297,18.768705139893644,16.128483522911321,24.469976392855507,23.78525512201632,22.81545127221619,22.910239407937187,17.42057694933883,17.374096499365514,17.250641230732715,14.104635091594524,14.283028032609581,14.751641641363872,30.214556415555705,29.896830077560857,31.127904778669453,26.68039918192094,16.370261993477243,16.568878473414912,16.292108288336085,15.183633483043158,29.868921732596892,24.964832211273556,26.902713589629641,16.333298274342937,22.293799537815325,16.638248772273428,26.226007450889536],"type":"scatter3d","mode":"markers","marker":{"color":"red","size":10,"symbol":104,"line":{"color":"rgba(255,127,14,1)"}},"error_y":{"color":"rgba(255,127,14,1)"},"error_x":{"color":"rgba(255,127,14,1)"},"line":{"color":"rgba(255,127,14,1)"},"frame":null}],"highlight":{"on":"plotly_click","persistent":false,"dynamic":false,"selectize":false,"opacityDim":0.20000000000000001,"selected":{"opacity":1},"debounce":0},"shinyEvents":["plotly_hover","plotly_click","plotly_selected","plotly_relayout","plotly_brushed","plotly_brushing","plotly_clickannotation","plotly_doubleclick","plotly_deselect","plotly_afterplot","plotly_sunburstclick"],"base_url":"https://plot.ly"},"evals":[],"jsHooks":[]}</script>
 </div>
 </div>
 

diff --git a/docs/visualizeCollinearity.html b/docs/visualizeCollinearity.html
@@ -296,7 +296,7 @@ pre > code.sourceCode > span > a:first-child::before { text-decoration: underlin
 <ul class="nav nav-tabs" role="tablist"><li class="nav-item" role="presentation"><a class="nav-link active" id="tabset-1-1-tab" data-bs-toggle="tab" data-bs-target="#tabset-1-1" role="tab" aria-controls="tabset-1-1" aria-selected="true">No Collinearity</a></li><li class="nav-item" role="presentation"><a class="nav-link" id="tabset-1-2-tab" data-bs-toggle="tab" data-bs-target="#tabset-1-2" role="tab" aria-controls="tabset-1-2" aria-selected="false">Moderate Collinearity</a></li><li class="nav-item" role="presentation"><a class="nav-link" id="tabset-1-3-tab" data-bs-toggle="tab" data-bs-target="#tabset-1-3" role="tab" aria-controls="tabset-1-3" aria-selected="false">High Collinearity</a></li><li class="nav-item" role="presentation"><a class="nav-link" id="tabset-1-4-tab" data-bs-toggle="tab" data-bs-target="#tabset-1-4" role="tab" aria-controls="tabset-1-4" aria-selected="false">Extremely High Collinearity</a></li></ul>
 <div class="tab-content">
 <div id="tabset-1-1" class="tab-pane active" role="tabpanel" aria-labelledby="tabset-1-1-tab">
-<p>The average correlation between <span class="math inline">\(X_1\)</span> and <span class="math inline">\(X_2\)</span> is -0.005.</p>
+<p>The average correlation between <span class="math inline">\(X_1\)</span> and <span class="math inline">\(X_2\)</span> is 0.002.</p>
 <div class="cell">
 <div class="cell-output-display">
 <p><img src="visualizeCollinearity_files/figure-html/unnamed-chunk-3-1.png" class="img-fluid" width="672"></p>
@@ -305,7 +305,7 @@ pre > code.sourceCode > span > a:first-child::before { text-decoration: underlin
 <p>The red dot represents the true coefficients. We see no relationship between the estimated coefficients, and each are well centered around the truth.</p>
 </div>
 <div id="tabset-1-2" class="tab-pane" role="tabpanel" aria-labelledby="tabset-1-2-tab">
-<p>The average correlation between <span class="math inline">\(X_1\)</span> and <span class="math inline">\(X_2\)</span> is 0.552.</p>
+<p>The average correlation between <span class="math inline">\(X_1\)</span> and <span class="math inline">\(X_2\)</span> is 0.553.</p>
 <div class="cell">
 <div class="cell-output-display">
 <p><img src="visualizeCollinearity_files/figure-html/unnamed-chunk-5-1.png" class="img-fluid" width="672"></p>
@@ -314,7 +314,7 @@ pre > code.sourceCode > span > a:first-child::before { text-decoration: underlin
 <p>While there is some semblance of a relationship, it is not very strong.</p>
 </div>
 <div id="tabset-1-3" class="tab-pane" role="tabpanel" aria-labelledby="tabset-1-3-tab">
-<p>The average correlation between <span class="math inline">\(X_1\)</span> and <span class="math inline">\(X_2\)</span> is 0.894.</p>
+<p>The average correlation between <span class="math inline">\(X_1\)</span> and <span class="math inline">\(X_2\)</span> is 0.893.</p>
 <div class="cell">
 <div class="cell-output-display">
 <p><img src="visualizeCollinearity_files/figure-html/unnamed-chunk-7-1.png" class="img-fluid" width="672"></p>

diff --git a/docs/index.html b/docs/index.html
@@ -215,7 +215,7 @@ ul.task-list li input[type="checkbox"] {
 
 </header>
 
-<p><a href="marginsnotes/index.html">Marginal Effects</a>: A long-form document on using marginal effects (marginal means and marginal slopes) to improve interpretation of regression coefficients, especially in the presence of an interaction. Presents as a Rosetta stone for Stata’s <code>margins</code> command and R. <em>Software</em>: Stata and R.</p>
+<p><a href="https://errickson.net/marginsnotes/index.html">Marginal Effects</a>: A long-form document on using marginal effects (marginal means and marginal slopes) to improve interpretation of regression coefficients, especially in the presence of an interaction. Presents as a Rosetta stone for Stata’s <code>margins</code> command and R. <em>Software</em>: Stata and R.</p>
 <p><a href="https://josherrickson.shinyapps.io/benj_hoch/">Benjamini–Hochberg Procedure</a>: An interactive calculator to apply the Benjamini–Hochberg multiple comparison correction for a series of p-values.</p>
 <p><a href="logtransform.html">Interpreting log transformations in regression</a>: Interpreting coefficients from a linear regression model (or linear mixed model) when the predictor and/or the outcome have been log transformed. <em>Software</em>: R, though concepts could transfer to other software.</p>
 <p><a href="mixedModelsSPSS.html">Random intercepts in SPSS’s Mixed Model</a>: There are two ways of specifying random intercepts in SPSS’s Mixed Model; this discusses their equivalence. <em>Software</em>: SPSS.</p>
